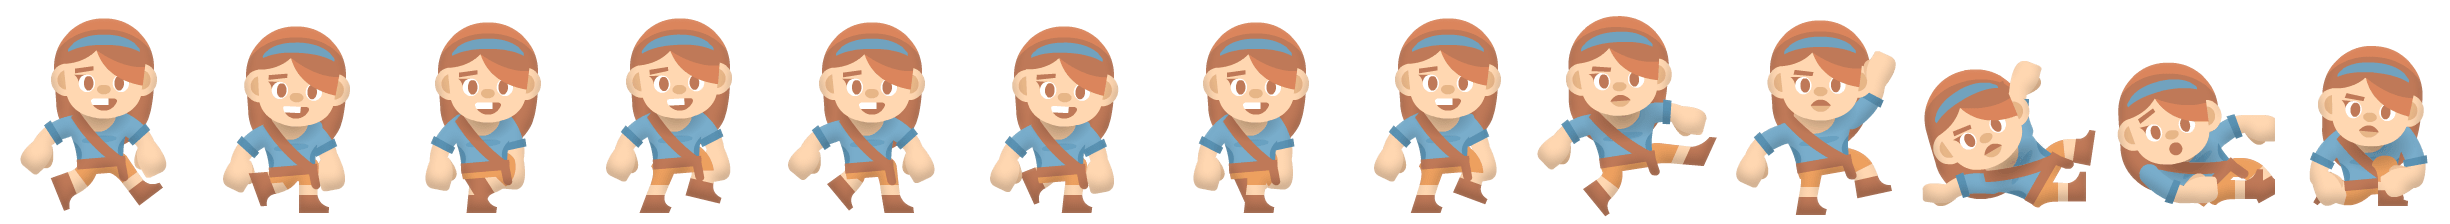
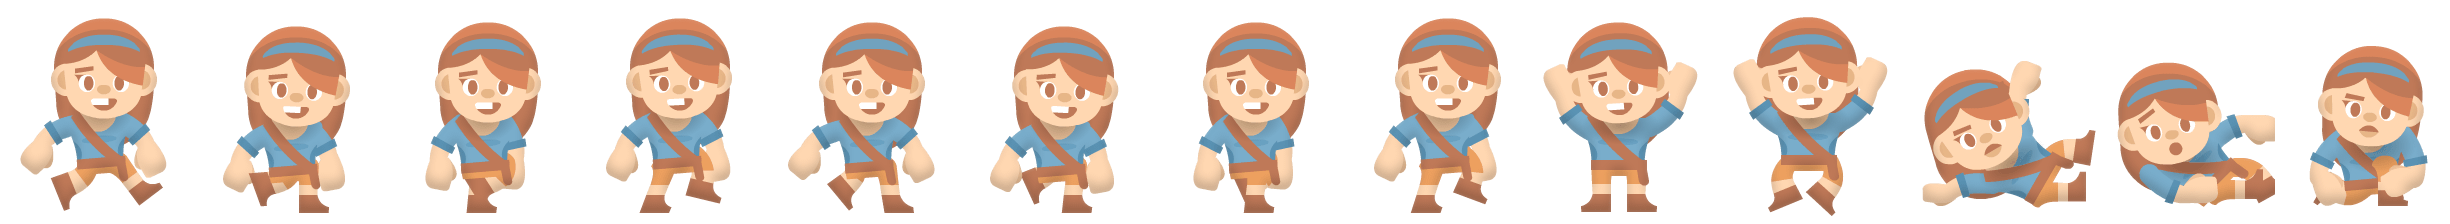
jumping animation etc.

Changed region(s): [[0.6204, 0.0625, 0.7755, 0.9688]]

diff --git a/src/player.ts b/src/player.ts
@@ -6,6 +6,7 @@ export class Player {
   private readonly gameState: GameState;
 
   private runningAnim: AnimatedSprite | null = null;
+  private jumpingAnim: AnimatedSprite | null = null;
   private duckingAnim: AnimatedSprite | null = null;
   private animSpeed: number | null = null;
 
@@ -35,8 +36,8 @@ export class Player {
         scale: 1,
       },
       animations: {
-        walking: ['f0', 'f1', 'f2', 'f3', 'f4', 'f5', 'f6', 'f7'],
-        jumping: ['f8', 'f9'],
+        running: ['f0', 'f1', 'f2', 'f3', 'f4', 'f5', 'f6', 'f7'],
+        jumping: ['f9'],
         ducking: ['f10'],
       },
     };
@@ -45,11 +46,18 @@ export class Player {
     const spritesheet = new Spritesheet(Texture.from('player'), atlasData);
     await spritesheet.parse();
 
-    this.runningAnim = new AnimatedSprite(spritesheet.animations.walking);
+    this.runningAnim = new AnimatedSprite(spritesheet.animations.running);
 
     this.runningAnim.position.x = this.gameState.playerPositionX;
     this.runningAnim.position.y = this.gameState.playerPositionY;
     this.runningAnim.anchor.set(0.5);
+
+    this.jumpingAnim = new AnimatedSprite(spritesheet.animations.jumping);
+
+    this.jumpingAnim.position.x = this.gameState.playerPositionX;
+    this.jumpingAnim.position.y = this.gameState.playerPositionY;
+    this.jumpingAnim.anchor.set(0.5);
+    this.jumpingAnim.visible = false;
 
     this.duckingAnim = new AnimatedSprite(spritesheet.animations.ducking);
 
@@ -60,6 +68,7 @@ export class Player {
 
     // add it to the stage to render
     this.gameState.application.stage.addChild(this.runningAnim);
+    this.gameState.application.stage.addChild(this.jumpingAnim);
     this.gameState.application.stage.addChild(this.duckingAnim);
   }
 
@@ -67,29 +76,49 @@ export class Player {
     if (this.gameState.isPlayerMoving) {
       if (this.animSpeed !== this.gameState.gameSpeed * 0.0275) {
         this.animSpeed = this.gameState.gameSpeed * 0.0275;
+
         this.runningAnim!.animationSpeed = this.animSpeed;
+        this.jumpingAnim!.animationSpeed = this.animSpeed;
         this.duckingAnim!.animationSpeed = this.animSpeed;
+      }
+
+      if (this.gameState.isPlayerJumping) {
+        this.runningAnim?.stop();
+
+        this.runningAnim!.visible = false;
+        this.duckingAnim!.visible = false;
+        this.jumpingAnim!.visible = true;
+
+        this.jumpingAnim?.play();
       }
 
       if (this.gameState.isPlayerDucking) {
         this.runningAnim?.stop();
 
         this.runningAnim!.visible = false;
+        this.jumpingAnim!.visible = false;
         this.duckingAnim!.visible = true;
 
         this.duckingAnim?.play();
       }
 
-      if (!this.gameState.isPlayerDucking && (!this.runningAnim?.playing || !this.runningAnim.visible)) {
+      if (
+        !this.gameState.isPlayerDucking &&
+        !this.gameState.isPlayerJumping &&
+        (!this.runningAnim?.playing || !this.runningAnim.visible)
+      ) {
         this.duckingAnim?.stop();
+        this.jumpingAnim?.stop();
 
         this.duckingAnim!.visible = false;
+        this.jumpingAnim!.visible = false;
         this.runningAnim!.visible = true;
 
         this.runningAnim!.play();
       }
 
       this.runningAnim!.position.y = this.gameState.playerPositionY;
+      this.jumpingAnim!.position.y = this.gameState.playerPositionY;
       this.duckingAnim!.position.y = this.gameState.playerPositionY;
     }
   }

diff --git a/src/backgroundMountains.ts b/src/backgroundMountains.ts
@@ -44,9 +44,9 @@ export class BackgroundMountains {
     const startXRight = this.gameState.width / 2;
 
     // Height of the individual mountain.
-    const heightLeft = this.gameState.height / 2;
-    const heightMiddle = (this.gameState.height * 4) / 6;
-    const heightRight = (this.gameState.height * 2) / 3;
+    const heightLeft = this.gameState.height / 2.2;
+    const heightMiddle = (this.gameState.height * 4) / 6.3;
+    const heightRight = (this.gameState.height * 2) / 3.2;
 
     // Color of the individual mountain.
     const colorLeft = '#54826d';

diff --git a/src/gameBackgroundGrass.ts b/src/gameBackgroundGrass.ts
@@ -9,7 +9,7 @@ export class GameBackgroundGrass {
   private readonly colorMatrix;
   private readonly pos: Record<number, any>;
   private readonly numberOfHills: number;
-  private readonly grassColor = '#26ab6d';
+  private readonly grassColor = '#00bd65';
 
   private brightness: number | null = null;
 

diff --git a/TODO.md b/TODO.md
@@ -32,6 +32,7 @@
 
 ## Release
 
+- Favicons
 - Responsive for different screen sizes
 - Mobile support?
 
